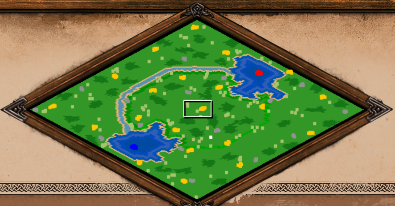
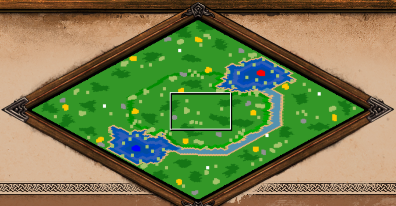
update with latest fixes

diff --git a/examples/Ring Nomad.py b/examples/Ring Nomad.py
@@ -11,6 +11,8 @@ from aoe2rms.commands.objects import CreateObject
 from aoe2rms.commands.terrain import CreateTerrain
 from aoe2rms.commands.connection import ConnectAllPlayersLand
 import aoe2rms.constants.terrains as ter
+import aoe2rms.constants.objects as obj
+from aoe2rms.constants import TerrainConstant
 
 from aoe2rms.presets.resources import generate_standard_relics
 from aoe2rms.conditionals import ConditionalScript
@@ -85,7 +87,7 @@ with TerrainGeneration(map=my_map):
         land_percent=7,
         number_of_clumps=14,
         set_scale_by_groups=True,
-        spacing_to_other_terrain_types=4,
+        spacing_to_other_terrain_types=6,
         comment="forests",
     )
 
@@ -95,7 +97,7 @@ with TerrainGeneration(map=my_map):
         land_percent=3,
         number_of_clumps=5,
         set_scale_by_groups=True,
-        spacing_to_other_terrain_types=8,
+        spacing_to_other_terrain_types=6,
     )
 
     CreateTerrain(
@@ -108,10 +110,10 @@ with TerrainGeneration(map=my_map):
     )
 
     CreateTerrain(
-        terrain_type=ter.LEAVES, land_percent=8, number_of_clumps=30, terrain_mask=1
+        terrain_type=ter.LEAVES, base_terrain=ter.GRASS, land_percent=8, number_of_clumps=30, terrain_mask=1
     )
     CreateTerrain(
-        terrain_type="UNDERBRUSH",
+        terrain_type=TerrainConstant(id=71, name="UNDERBRUSH"),
         base_terrain=ter.GRASS,
         land_percent=8,
         number_of_clumps=30,
@@ -132,7 +134,7 @@ with TerrainGeneration(map=my_map):
         terrain_mask=1,
     )
     CreateTerrain(
-        terrain_type="UNDERBRUSH",
+        terrain_type=TerrainConstant(id=71, name="UNDERBRUSH"),
         base_terrain=ter.GRASS2,
         land_percent=8,
         number_of_clumps=30,
@@ -233,13 +235,13 @@ with ConnectionGeneration(map=my_map):
 # Define objects generation
 with ObjectsGeneration(map=my_map) as objects:
     CreateObject(
-        object_type="TRANSPORT_SHIP",
+        object_type=obj.TRANSPORT_SHIP,
         set_place_for_every_player=True,
         max_distance_to_players=0,
     )
 
     CreateObject(
-        object_type="VILLAGER",
+        object_type=obj.VILLAGER,
         number_of_objects=9,
         set_place_for_every_player=True,
         min_distance_to_players=1,
@@ -256,7 +258,7 @@ with ObjectsGeneration(map=my_map) as objects:
                     CreateObject(
                         autoregister=False,
                         comment="test",
-                        object_type="KING",
+                        object_type=obj.KING,
                         ignore_terrain_restrictions=True,
                         set_place_for_every_player=True,
                         min_distance_to_players=1,
@@ -272,12 +274,14 @@ with ObjectsGeneration(map=my_map) as objects:
 
     CreateObject(
         comment="scatter ressources evenly across the map",
-        object_type="FORAGE",
+        object_type=obj.FORAGE,
         number_of_groups=9999,
+        number_of_objects=6,
         group_placement_radius=2,
         set_tight_grouping=True,
         set_gaia_object_only=True,
         min_distance_group_placement=4,
+        temp_min_distance_group_placement=24,
         avoid_forest_zone=3,
         terrain_to_place_on=ter.GRASS2,
         max_distance_to_other_zones=2,
@@ -286,7 +290,7 @@ with ObjectsGeneration(map=my_map) as objects:
     )
 
     CreateObject(
-        object_type="GOLD",
+        object_type=obj.GOLD,
         number_of_groups=9999,
         number_of_objects=6,
         temp_min_distance_group_placement=22,
@@ -301,7 +305,7 @@ with ObjectsGeneration(map=my_map) as objects:
         actor_area_radius=22,
     )
     CreateObject(
-        object_type="STONE",
+        object_type=obj.STONE,
         number_of_groups=9999,
         number_of_objects=4,
         temp_min_distance_group_placement=24,
@@ -317,7 +321,7 @@ with ObjectsGeneration(map=my_map) as objects:
     )
 
     CreateObject(
-        object_type="SHEEP",
+        object_type=obj.SHEEP,
         number_of_groups=9999,
         number_of_objects=1,
         set_gaia_object_only=True,
@@ -330,7 +334,7 @@ with ObjectsGeneration(map=my_map) as objects:
     )
 
     CreateObject(
-        object_type="DEER",
+        object_type=obj.DEER,
         number_of_groups=9999,
         number_of_objects=3,
         set_gaia_object_only=True,
@@ -343,7 +347,7 @@ with ObjectsGeneration(map=my_map) as objects:
     )
 
     CreateObject(
-        object_type="BOAR",
+        object_type=obj.BOAR,
         number_of_groups=9999,
         number_of_objects=1,
         set_gaia_object_only=True,
@@ -356,7 +360,7 @@ with ObjectsGeneration(map=my_map) as objects:
     )
 
     CreateObject(
-        object_type="FORAGE",
+        object_type=obj.FORAGE,
         number_of_groups=9999,
         group_placement_radius=2,
         set_tight_grouping=True,
@@ -372,7 +376,7 @@ with ObjectsGeneration(map=my_map) as objects:
     )
 
     CreateObject(
-        object_type="GOLD",
+        object_type=obj.GOLD,
         number_of_groups=9999,
         number_of_objects=6,
         temp_min_distance_group_placement=32,
@@ -388,7 +392,7 @@ with ObjectsGeneration(map=my_map) as objects:
     )
 
     CreateObject(
-        object_type="STONE",
+        object_type=obj.STONE,
         number_of_groups=9999,
         number_of_objects=4,
         temp_min_distance_group_placement=34,
@@ -404,7 +408,7 @@ with ObjectsGeneration(map=my_map) as objects:
     )
 
     CreateObject(
-        object_type="SHEEP",
+        object_type=obj.SHEEP,
         number_of_groups=9999,
         number_of_objects=1,
         set_gaia_object_only=True,
@@ -417,7 +421,7 @@ with ObjectsGeneration(map=my_map) as objects:
     )
 
     CreateObject(
-        object_type="DEER",
+        object_type=obj.DEER,
         number_of_groups=9999,
         number_of_objects=3,
         set_gaia_object_only=True,
@@ -430,7 +434,7 @@ with ObjectsGeneration(map=my_map) as objects:
     )
 
     CreateObject(
-        object_type="BOAR",
+        object_type=obj.BOAR,
         number_of_groups=9999,
         number_of_objects=1,
         set_gaia_object_only=True,
@@ -444,7 +448,7 @@ with ObjectsGeneration(map=my_map) as objects:
 
     CreateObject(
         comment="fish",
-        object_type="SHORE_FISH",
+        object_type=obj.SHORE_FISH,
         number_of_objects=12,
         set_scaling_to_map_size=True,
         set_gaia_object_only=True,
@@ -454,7 +458,7 @@ with ObjectsGeneration(map=my_map) as objects:
         find_closest=True,
     )
     CreateObject(
-        object_type="MARLIN2",
+        object_type=obj.MARLIN2,
         number_of_objects=1,
         set_scaling_to_map_size=True,
         terrain_to_place_on=ter.DLC_WATER4,
@@ -466,9 +470,9 @@ with ObjectsGeneration(map=my_map) as objects:
         find_closest=True,
     )
     CreateObject(
-        object_type="SALMON",
+        object_type=obj.SALMON,
         number_of_objects=5,
-        set_scaling_to_map_size=True,
+        # set_scaling_to_map_size=True,
         set_gaia_object_only=True,
         max_distance_to_other_zones=4,
         min_distance_group_placement=4,
@@ -479,9 +483,9 @@ with ObjectsGeneration(map=my_map) as objects:
         find_closest=True,
     )
     CreateObject(
-        object_type="FISH_PERCH",
+        object_type=obj.FISH_PERCH,
         number_of_objects=5,
-        set_scaling_to_map_size=True,
+        # set_scaling_to_map_size=True,
         set_gaia_object_only=True,
         max_distance_to_other_zones=4,
         min_distance_group_placement=4,
@@ -492,9 +496,9 @@ with ObjectsGeneration(map=my_map) as objects:
         find_closest=True,
     )
     CreateObject(
-        object_type="OAKTREE",
+        object_type=obj.OAKTREE,
         number_of_groups=30,
-        set_scaling_to_map_size=True,
+        # set_scaling_to_map_size=True,
         set_gaia_object_only=True,
         min_distance_group_placement=1,
         avoid_forest_zone=1,
@@ -502,9 +506,9 @@ with ObjectsGeneration(map=my_map) as objects:
     )
     CreateObject(
         comment="birds",
-        object_type="HAWK",
+        object_type=obj.HAWK,
         number_of_objects=6,
-        set_scaling_to_map_size=True,
+        # set_scaling_to_map_size=True,
     )
 
 if __name__ == "__main__":
@@ -512,5 +516,4 @@ if __name__ == "__main__":
     rms_script = my_map.compile()
 
     # Write it to a file
-    with open(__file__ + ".rms", "w") as f:
-        f.write(rms_script)
+    my_map.save_to_file(__file__ + ".rms", overwrite=True)
